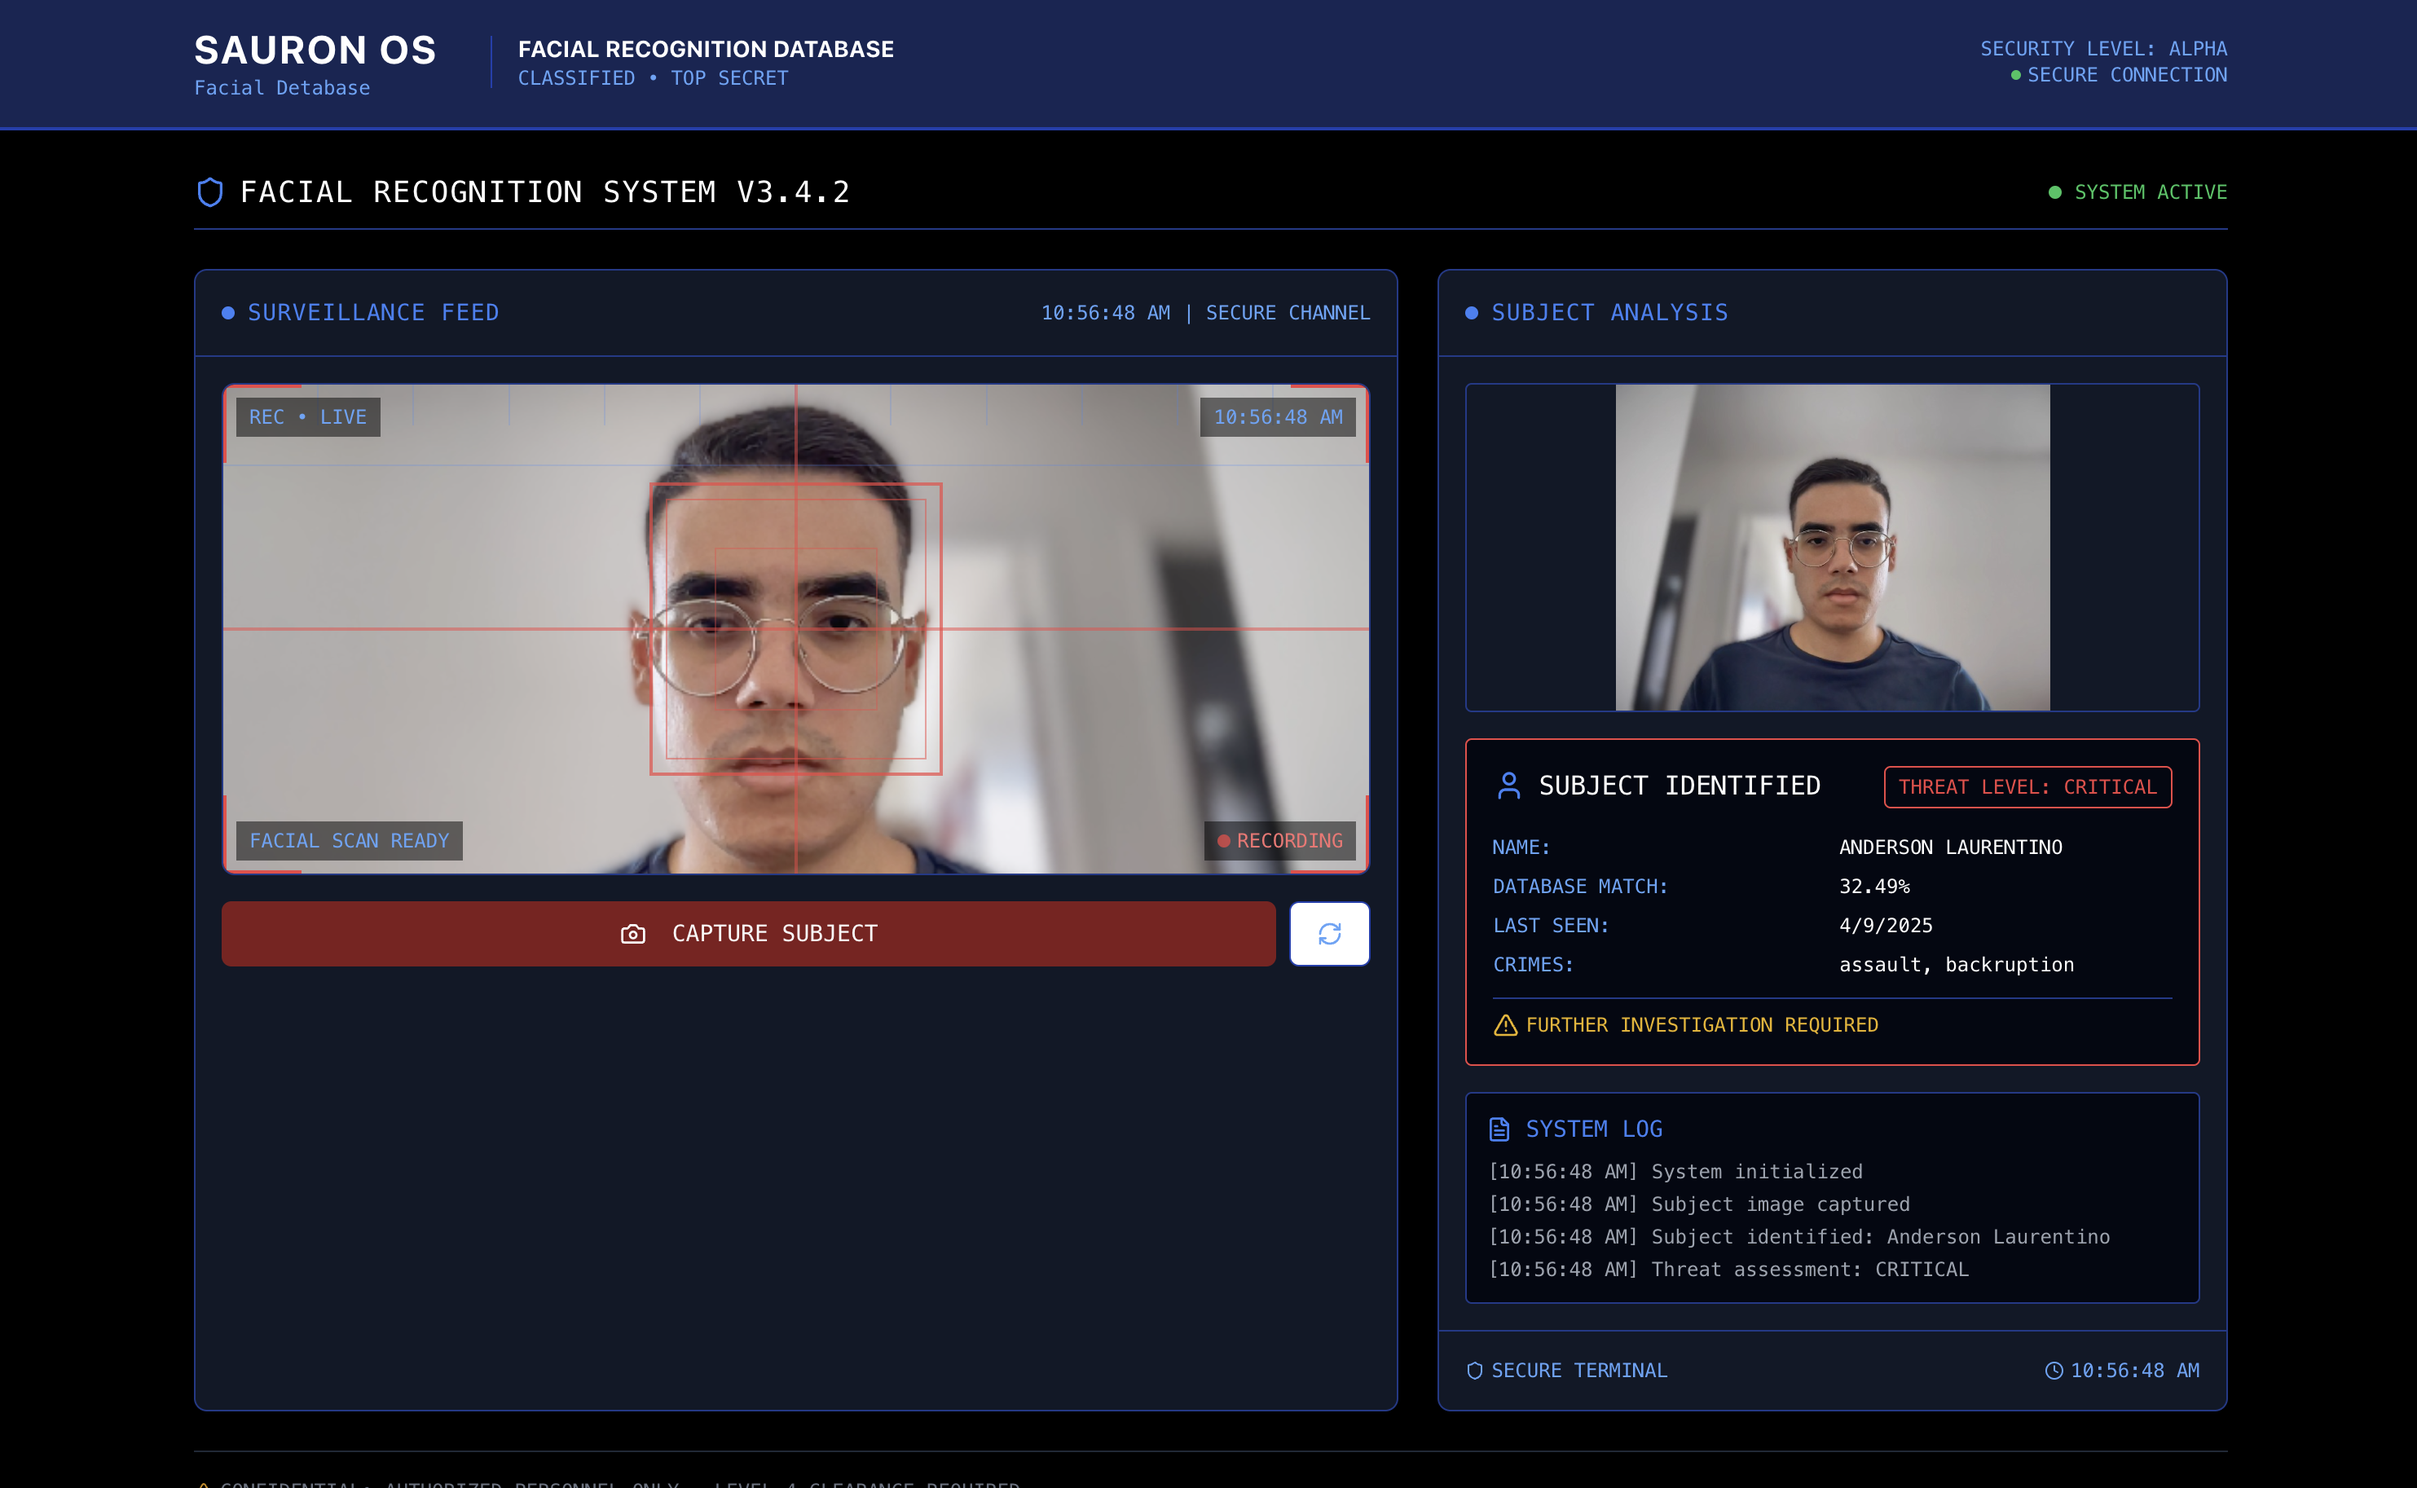
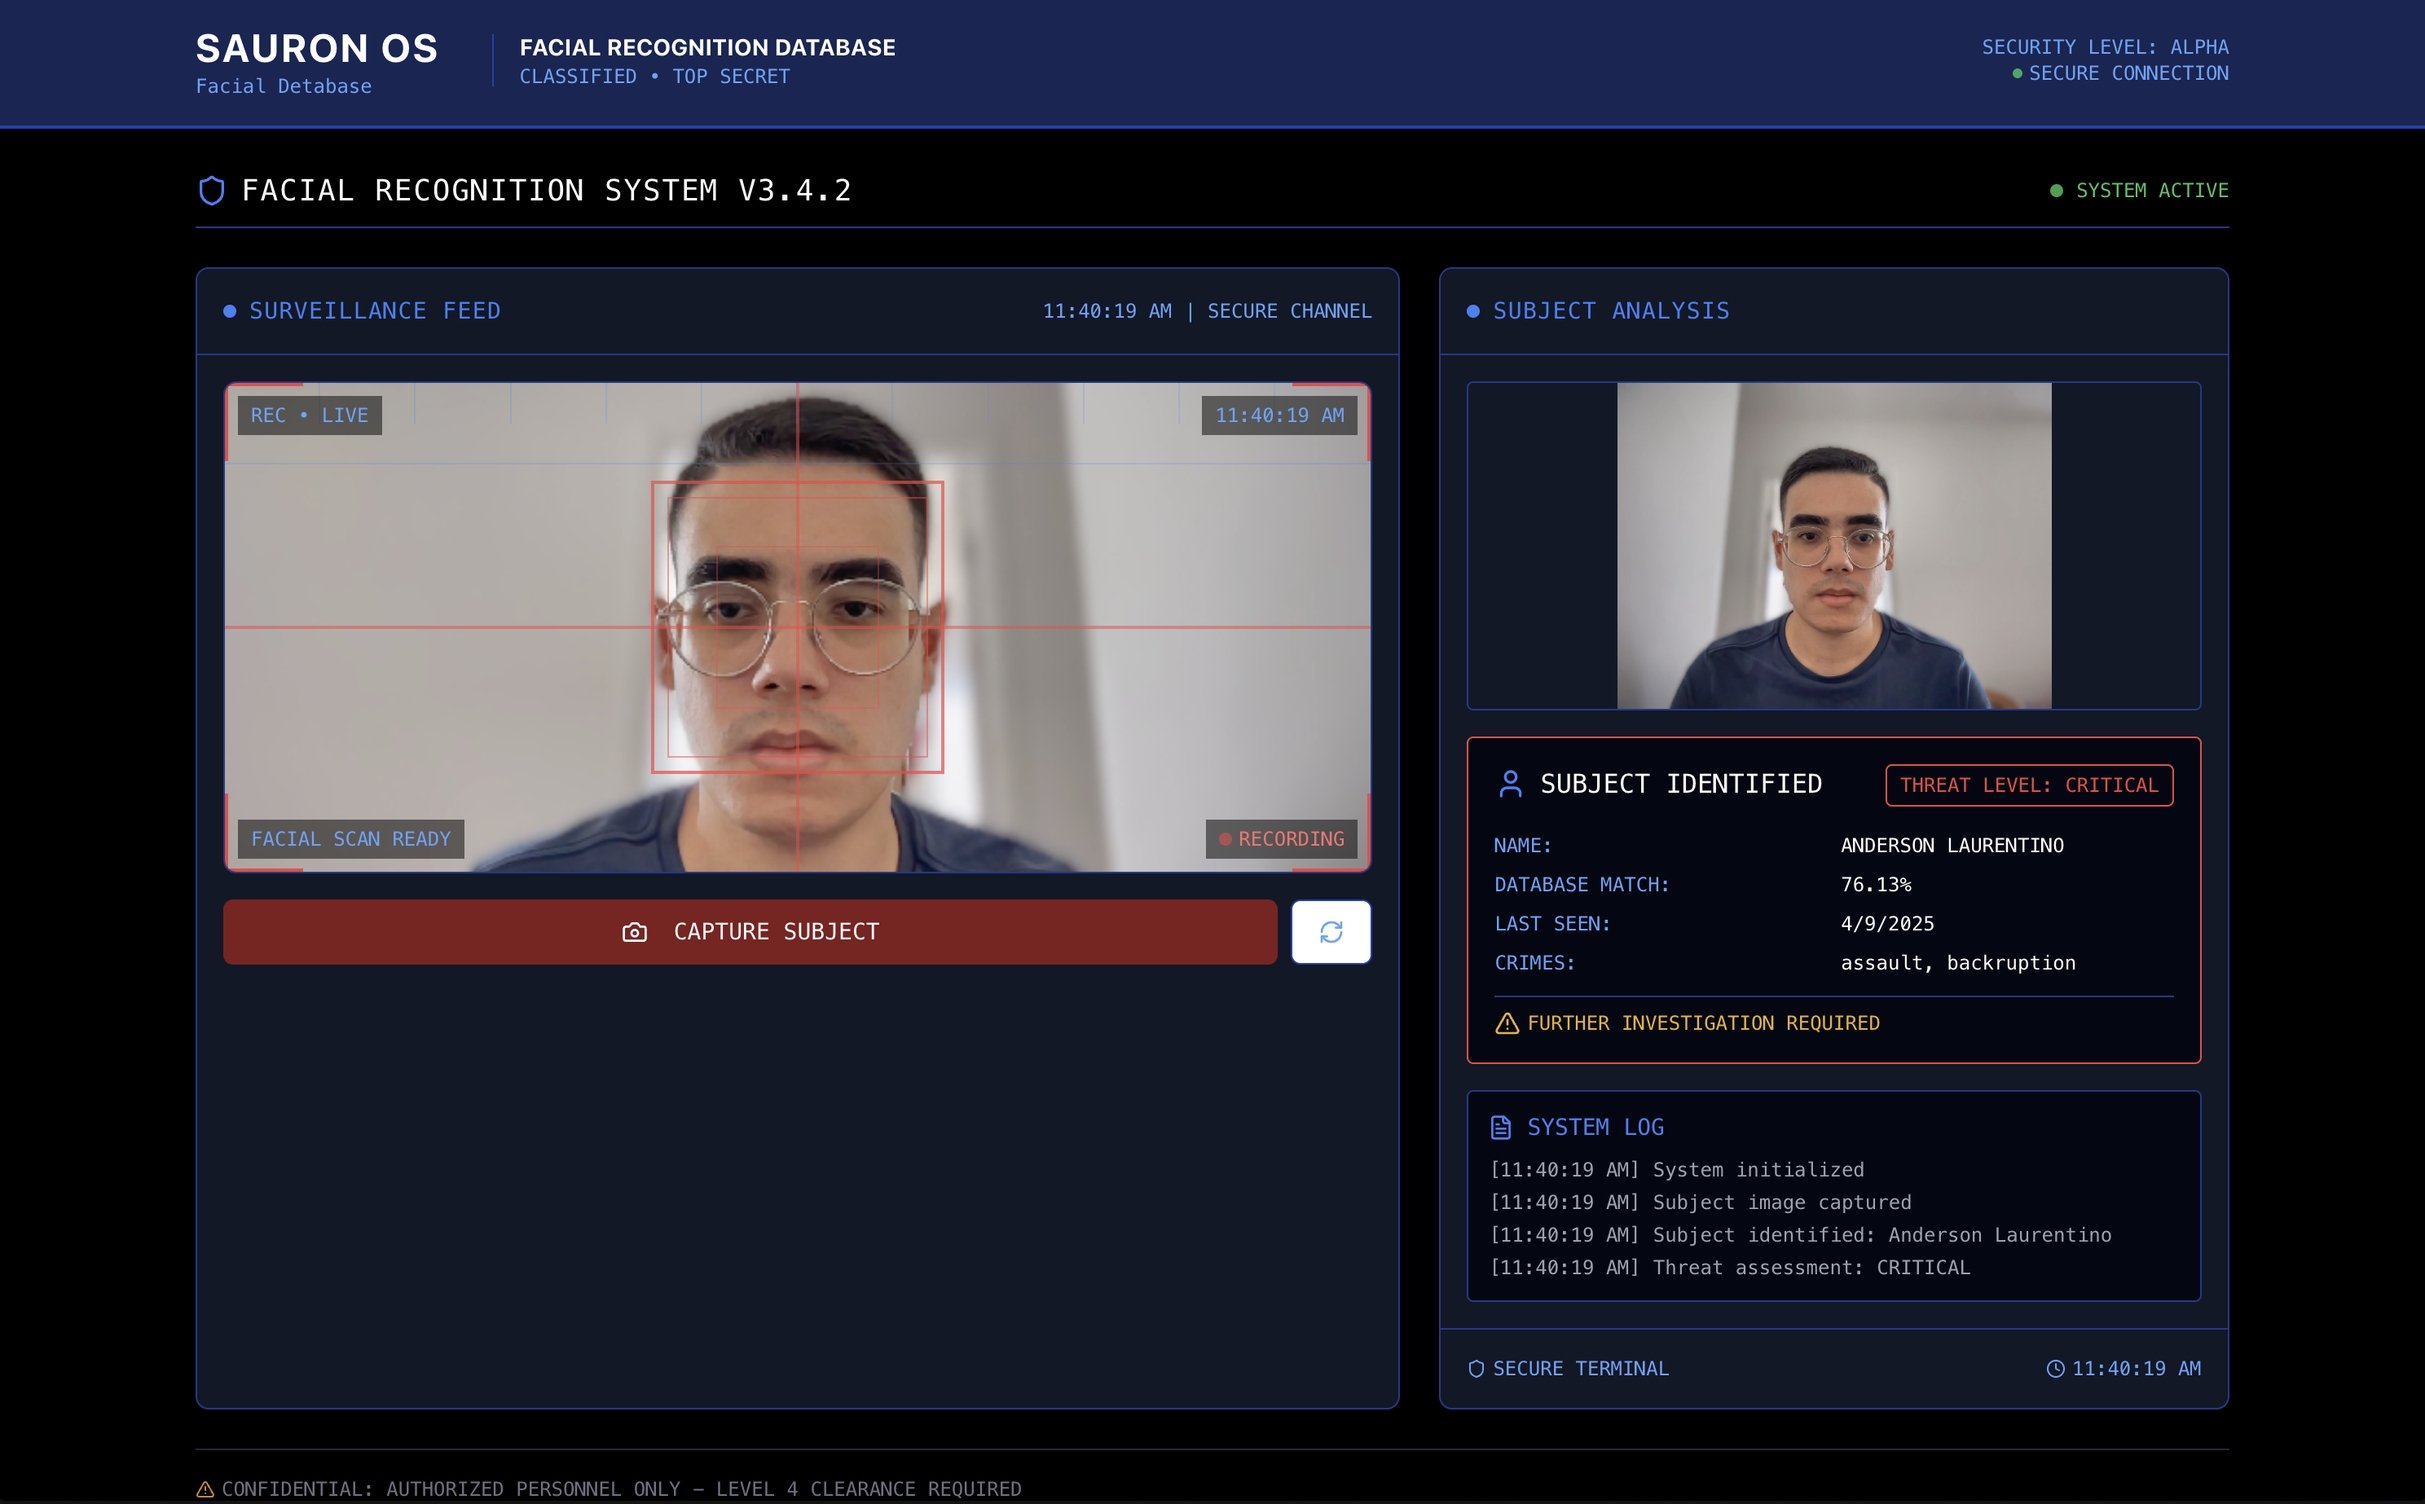
refactor: updated README.md

Changed region(s): [[0.0, 0.0312, 1.0, 1.0]]

diff --git a/back/main.py b/back/main.py
@@ -295,11 +295,11 @@ class Suspect(TypedDict):
 
 def fetch_suspect_database_by_id(id: int, confidence: float) -> Suspect:
     if id == 0:
-        return {"name": "João Matheus", "threatLevel": "CRITICAL", "crimes": ["assault", "backruption"], "confidence": confidence}
+        return {"name": "João Matheus", "threatLevel": "CRITICAL", "crimes": ["insider trading", "fraud"], "confidence": confidence}
     elif id == 1:
-        return {"name": "Anderson Laurentino", "threatLevel": "CRITICAL", "crimes": ["assault", "backruption"], "confidence": confidence}
+        return {"name": "Anderson Laurentino", "threatLevel": "CRITICAL", "crimes": ["hacking", "identity theft"], "confidence": confidence}
     elif id == 3:
-        return {"name": "Helton Alves", "threatLevel": "CRITICAL", "crimes": ["assault", "backruption"], "confidence": confidence}
+        return {"name": "Helton Alves", "threatLevel": "CRITICAL", "crimes": ["vandalism", "robbery"], "confidence": confidence}
     else:
         return {"name": "UNKNOWN", "threatLevel": "UNKNOWN", "crimes": [], "confidence": 0}
 

diff --git a/README.md b/README.md
@@ -4,15 +4,17 @@
 
 ## Docker Setup
 
-### Run Everything with Docker Compose
-To run both frontend and backend services:
+### 1. To run both frontend and backend services:
 ```
 docker-compose up
 ```
 
+### 2. Access: [http://localhost:3000](http://localhost:3000)
+
+
 ## Standard Setup
 
-### Run Backend
+### 1. Run Backend
 ```
 cd back/
 
@@ -21,7 +23,7 @@ python3 -m pip install -r requirements.txt
 uvicorn main:app --reload
 ```
 
-### Run Frontend
+### 2. Run Frontend
 ```
 cd front/
 
@@ -29,3 +31,5 @@ npm install
 
 npm run dev
 ```
+
+### 3. Access: [http://localhost:3000](http://localhost:3000)
